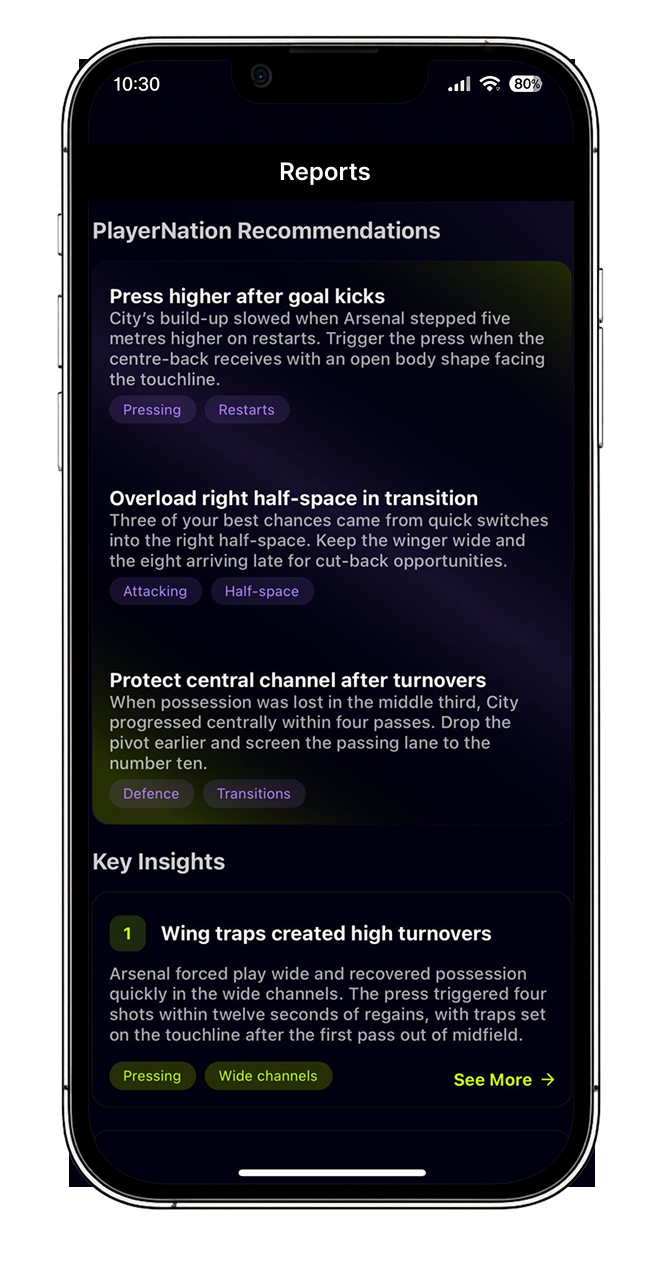
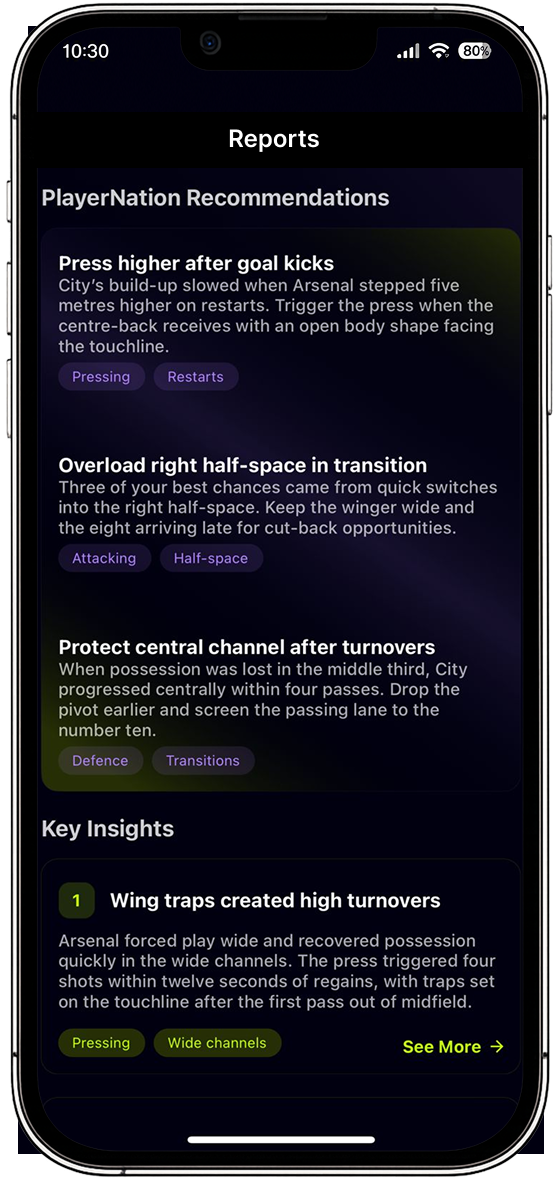
updates

diff --git a/src/components/FeaturesSection.tsx b/src/components/FeaturesSection.tsx
@@ -111,7 +111,7 @@ export default function FeaturesSection() {
               </div>
 
               <div
-                className=" flex items-center justify-center gap-2"
+                className=" flex items-center justify-center gap-2 mt-2"
                 role="tablist"
                 aria-label="Feature slides"
               >